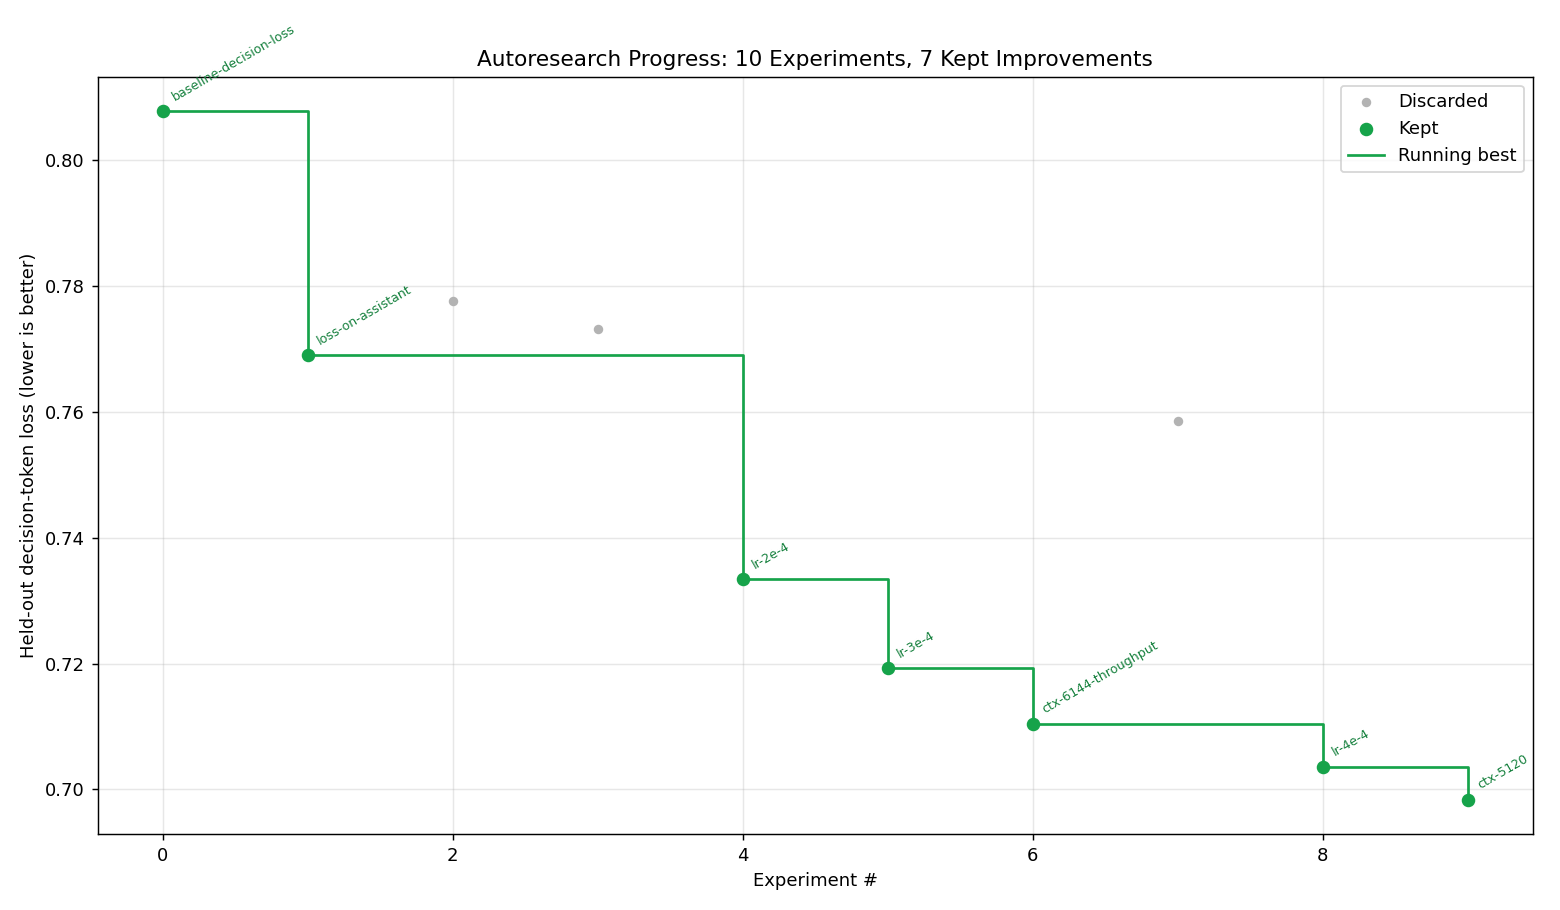
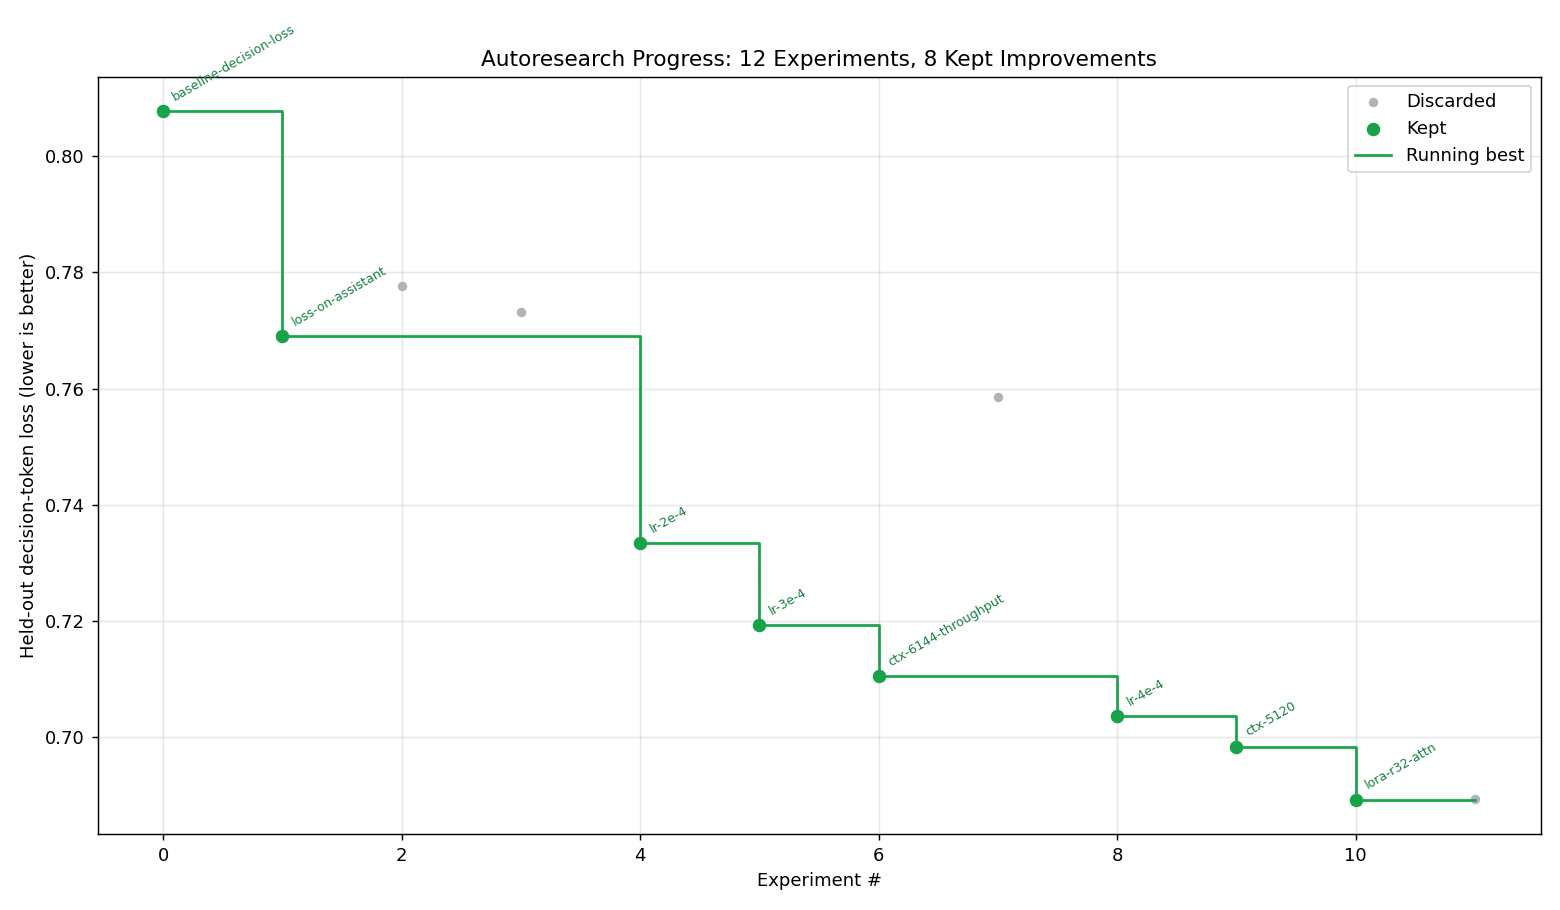
Refresh plot + method.md (0013 best=0.689)

diff --git a/method.md b/method.md
@@ -1,7 +1,7 @@
 # Current best method
 
-- best experiment: **0012**
-- held-out val loss (lower=better): **0.69836**
+- best experiment: **0013**
+- held-out val loss (lower=better): **0.68925**
 
 ## Config
 ```json
@@ -11,8 +11,8 @@
   "loss_on": "assistant",
   "truncation": "right",
   "max_length": 5120,
-  "lora_r": 16,
-  "lora_alpha": 32,
+  "lora_r": 32,
+  "lora_alpha": 64,
   "lora_dropout": 0.05,
   "target_modules": [
     "q_proj",
@@ -49,3 +49,4 @@
 - `0009` ctx-6144-throughput: Throughput: train ctx 8192->6144 to fit more optimizer steps in the fixed budget. Eval stays fixed @8192; honest steps-vs-coverage test. Watch long bucket. -> loss 0.71048
 - `0011` lr-4e-4: Keep climbing LR ridge: 3e-4 -> 4e-4 until it regresses. -> loss 0.70361
 - `0012` ctx-5120: More throughput: train ctx ->5120 for more steps. Watch long bucket for the coverage floor. -> loss 0.69836
+- `0013` lora-r32-attn: Memory-safe capacity test (0007 OOM'd with MLP): LoRA r16->r32 alpha64, attn-only. -> loss 0.68925
